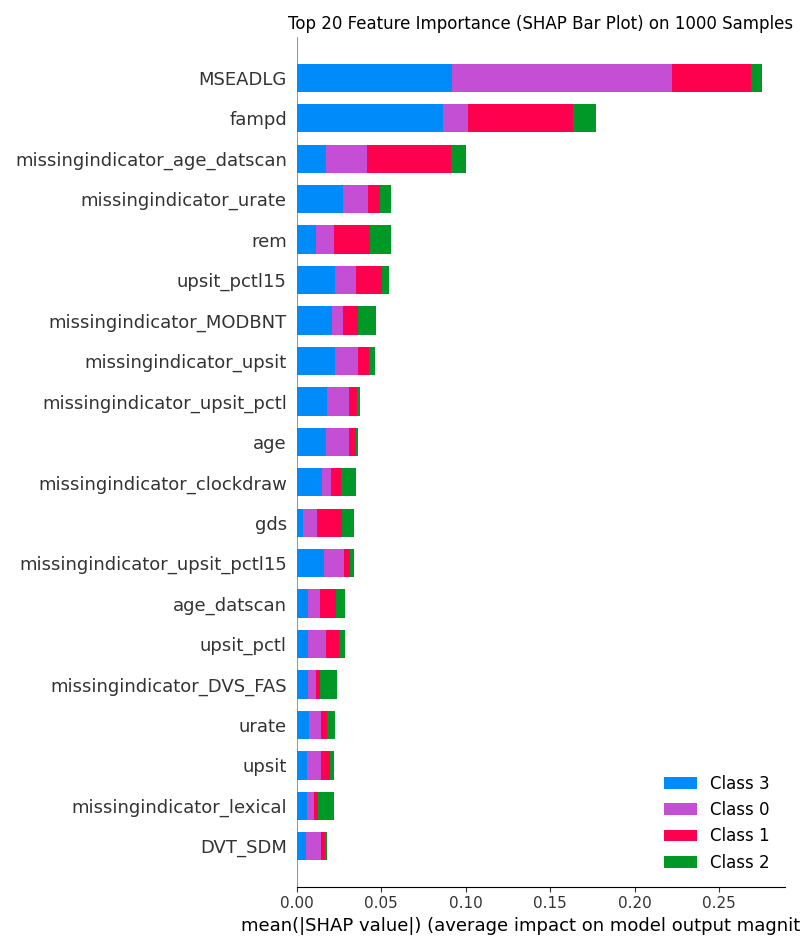
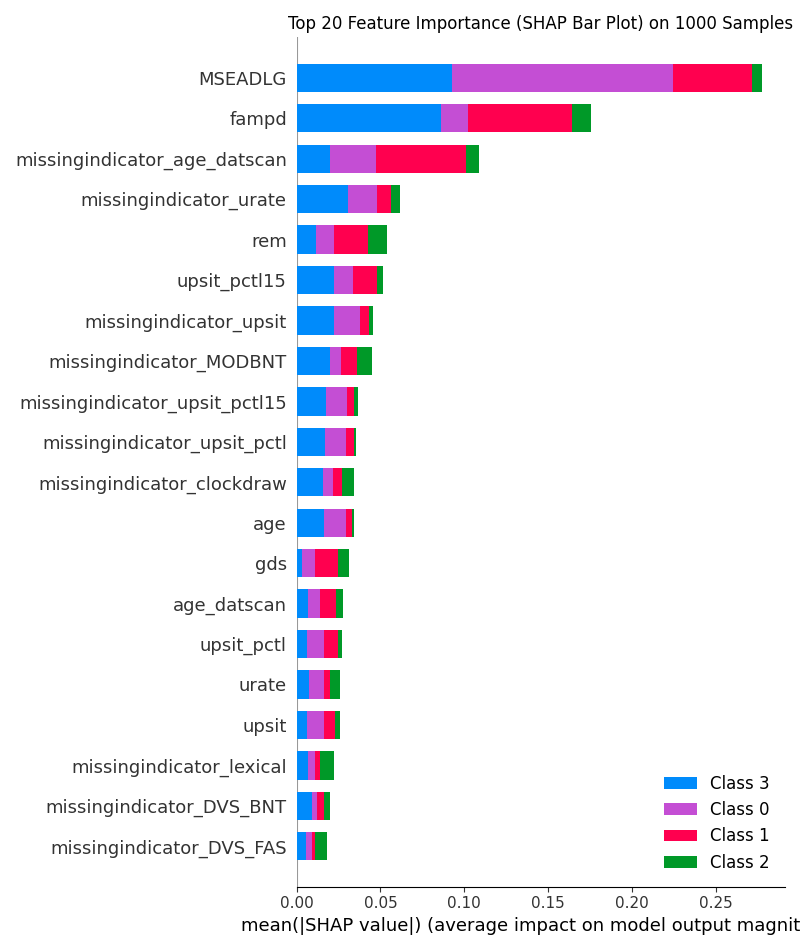
Update project files and configurations

diff --git a/TabTransformer-based_Classification/feature_importance_analysis.py b/TabTransformer-based_Classification/feature_importance_analysis.py
@@ -8,6 +8,27 @@ import torch
 from pathlib import Path
 from tab_transformer_pytorch import TabTransformer
 from scipy.special import softmax
+import warnings
+from sklearn.exceptions import ConvergenceWarning
+
+# Suppress ConvergenceWarning from scikit-learn, which can be noisy with KernelExplainer
+warnings.filterwarnings("ignore", category=ConvergenceWarning)
+
+# --- NEW: Model Wrapper for DeepExplainer ---
+# This wrapper makes the model compatible with SHAP's DeepExplainer by accepting a single
+# concatenated tensor and splitting it internally into categorical and continuous parts.
+class ModelWrapper(torch.nn.Module):
+    def __init__(self, model, cat_feature_count):
+        super().__init__()
+        self.model = model
+        self.cat_feature_count = cat_feature_count
+
+    def forward(self, x):
+        # x is a single tensor where categorical and continuous features are concatenated.
+        # We split them back into two tensors here.
+        x_categ = x[:, :self.cat_feature_count].long()
+        x_cont = x[:, self.cat_feature_count:]
+        return self.model(x_categ, x_cont)
 
 SEED = 42
 
@@ -71,6 +92,9 @@ def analyze_feature_importance():
     cat_features = preprocessors['categorical_features']
     num_features = preprocessors['numerical_features']
     feature_names = cat_features + num_features
+    
+    # --- NEW: Wrap the model for SHAP ---
+    wrapped_model = ModelWrapper(model, len(cat_features))
 
     # We use the original (unscaled, un-encoded) data and preprocess on the fly
     # This makes the SHAP plot more interpretable
@@ -117,10 +141,12 @@ def analyze_feature_importance():
     # --- 7. Bar plot (native SHAP) ---
     print("\n--- Saving SHAP summary bar plot ---")
     plt.figure()
+    class_names_for_plot = [f"Class {i}" for i in range(len(shap_values))]
     shap.summary_plot(
         shap_values,
         X_eval,
         plot_type="bar",
+        class_names=class_names_for_plot,
         show=False,
         max_display=20
     )
@@ -130,7 +156,7 @@ def analyze_feature_importance():
     plt.close()
     print(f"Saved bar plot to {bar_plot_path}")
 
-    # --- 8. Global importance for correlation heatmap ---
+    # --- 9. Global importance for correlation heatmap ---
     print("\n--- Computing global feature importance vector ---")
     global_importance = compute_global_importance(shap_values)
 
@@ -141,7 +167,7 @@ def analyze_feature_importance():
 
     top_20_features = feature_importance_df.head(20)['feature'].tolist()
 
-    # --- 9. Correlation heatmap ---
+    # --- 10. Correlation heatmap ---
     print("\n--- Saving correlation heatmap for top 20 features ---")
     corr_matrix = df_original[top_20_features].corr()
 

diff --git a/TabTransformer-based_Classification/train.py b/TabTransformer-based_Classification/train.py
@@ -5,7 +5,7 @@ import joblib
 from pathlib import Path
 import numpy as np
 import random
-import wandb
+# import wandb
 from sklearn.metrics import accuracy_score, f1_score, classification_report
 from sklearn.model_selection import train_test_split
 from tab_transformer_pytorch import TabTransformer
@@ -92,16 +92,16 @@ def train_model():
     model = TabTransformer(**model_config).to(DEVICE)
 
     # --- WANDB SETUP ---
-    full_config = {
-        **model_config,
-        **{'epochs': EPOCHS, 'lr': LEARNING_RATE, 'batch_size': BATCH_SIZE, 'seed': SEED}
-    }
+    # full_config = {
+    #     **model_config,
+    #     **{'epochs': EPOCHS, 'lr': LEARNING_RATE, 'batch_size': BATCH_SIZE, 'seed': SEED}
+    # }
 
-    run = wandb.init(
-        project="PD prediction task",
-        entity="ld77-universit-paris-dauphine-psl",
-        config=full_config
-    )
+    # run = wandb.init(
+    #     project="PD prediction task",
+    #     entity="ld77-universit-paris-dauphine-psl",
+    #     config=full_config
+    # )
 
     print(
         f"Model initialized with "
@@ -166,15 +166,15 @@ def train_model():
         )
 
         # --- WANDB LOGGING ---
-        wandb.log({
-            "epoch": epoch,
-            "train_loss": train_loss,
-            "train_accuracy": train_acc,
-            "train_f1": train_f1,
-            "val_loss": val_loss,
-            "val_accuracy": val_acc,
-            "val_f1": val_f1
-        })
+        # wandb.log({
+        #     "epoch": epoch,
+        #     "train_loss": train_loss,
+        #     "train_accuracy": train_acc,
+        #     "train_f1": train_f1,
+        #     "val_loss": val_loss,
+        #     "val_accuracy": val_acc,
+        #     "val_f1": val_f1
+        # })
 
         # --- Checkpointing best model ---
         if val_f1 > best_val_f1:
@@ -197,8 +197,8 @@ def train_model():
                 }
             }, model_path)
 
-            wandb.summary['best_val_f1'] = best_val_f1
-            wandb.summary['best_epoch'] = epoch
+            # wandb.summary['best_val_f1'] = best_val_f1
+            # wandb.summary['best_epoch'] = epoch
 
     print("\n--- Training Completed ---")
     print(f"Best validation F1-score: {best_val_f1:.4f}")
@@ -238,10 +238,10 @@ def train_model():
     ))
 
     # Log final test metrics to wandb summary for easy comparison
-    wandb.summary['test_acc'] = test_acc
-    wandb.summary['test_f1'] = test_f1
+    # wandb.summary['test_acc'] = test_acc
+    # wandb.summary['test_f1'] = test_f1
 
-    wandb.finish()
+    # wandb.finish()
 
 
 if __name__ == '__main__':

diff --git a/Random_Forest_Classification/feature_importance_analysis.py b/Random_Forest_Classification/feature_importance_analysis.py
@@ -80,6 +80,10 @@ def analyze_feature_importance():
 
     rf_model = best_model_pipeline.named_steps["classifier"]
 
+    # Create explicit class names for the plot legend to ensure sorted order.
+    # This maps the model's internal classes (e.g., 1, 2, 3, 4) to "Class 0", "Class 1", etc.
+    class_names_for_plot = [f"Class {i}" for i in range(len(rf_model.classes_))]
+
     # --- Sample for SHAP ---
     print("Sampling background and evaluation sets...")
     X_background = shap.sample(X, 100, random_state=SEED)
@@ -97,6 +101,7 @@ def analyze_feature_importance():
         shap_values,
         X_eval,
         plot_type="bar",
+        class_names=class_names_for_plot,
         show=False,
         max_display=20
     )
